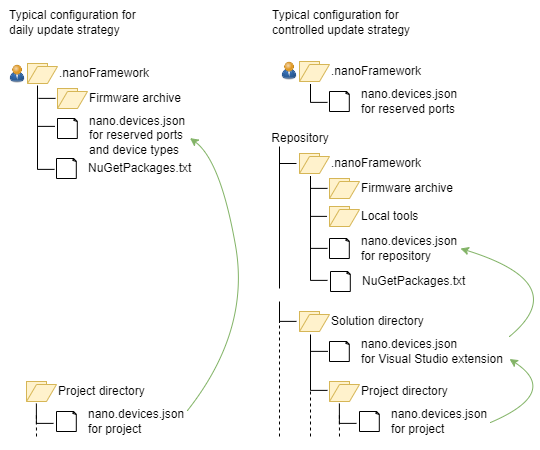
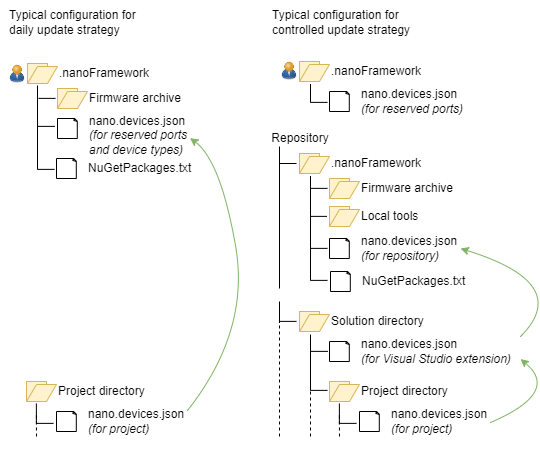
Documentation review

diff --git a/content/versioning/tools-configuration.md b/content/versioning/tools-configuration.md
@@ -1,6 +1,6 @@
 # Tools and configuration
 
-The .NET **nanoFramework** has out-of-the-box support for the auto-update [versioning strategy](versioning-strategies.md). For the other supported strategies some extra configuration files and tools have to be added.
+The .NET **nanoFramework** has out-of-the-box support for the [auto-update](versioning-strategies.md#auto-update) versioning strategy. For the other supported strategies some extra configuration files and tools have to be added.
 
 The configuration is also used by other tools that require information about the devices relevant for a project. These tools include the [Visual Studio extension](../getting-started-guides/getting-started-managed.md) and the latest version of the [test framework](../unit-test/framework-v3). Custom tools can use the configuration by using the [nanoFramework.Tooling.Devices](https://github.com/nanoframework/nf-tools) library.
 
@@ -8,14 +8,14 @@ The configuration consists of several components, depending on the adopted versi
 
 ![Configurations for versioning strategies](../../images/versioning-devices-configuration.png)
 
-- A [local tools](#local-tools) directory (controlled update strategy only).
-- A [firmware archive](#firmware-archive) that contains the firmware packages for the device types your software is intended to be deployed to.
-- A list of [NuGet packages](#nuget-package-list) used in .NET **nanoFramework** projects.
+- A [firmware archive](#firmware-archive) directory that contains the firmware packages for the device types your software is intended to be deployed to.
+- A [local tools](#local-tools) directory; only required for the controlled update strategy.
+- A file (e.g., *NuGetPackages.txt*) that lists the [NuGet package versions](#nuget-package-list) to be used in .NET **nanoFramework** projects.
 - A description of the [configuration and devices](#configuration-and-devices) as stored in `nano.devices.json` files.
 
 The first three components are created by running commands. These can be combined in an [update script](#update-script) that, in case of the daily update strategy, can be run every day.
 
-To each .NET **nanoFramework** project for which a consistency check is required a [NuGet package](#consistency-verification-task) should be added that verifies the consistency of the NuGet packages used by the project, the packages in the NuGet package list and the firmware for the devices the projects is intended to be deployed to.
+A [NuGet package](#consistency-verification-task) should be added to each .NET **nanoFramework** project for which a consistency check is required. The package installs a MSBuild task that verifies the consistency of the NuGet packages used by the project with the packages in the NuGet package list and the firmware for the devices the projects is intended to be deployed to.
 
 ## Local tools 
 
@@ -26,14 +26,6 @@ In that case use a local copy of the [nanoff](https://github.com/nanoframework/n
 ```
 dotnet tool install nanoff --tool-path <repository>\.nanoFramework\Tools
 ```
-
-If you are not planning to update the nanoFramework components for a long time, e.g., near the end of product development or of the product support period, and if you are using the Virtual nanoDevice for testing, you may consider to create a local copy of the Virtual nanoDevice host [nanoclr](../getting-started-guides/virtual-device.md) as well. This ensures that you always will have the correct host available:
-
-```
-dotnet tool install nanoclr --tool-path <repository>\.nanoFramework\Tools
-```
-
-If you are planning to update the nanoFramework components, you don't have to create a local copy. Use the latest version of the global *nanoclr* tool instead with the archived firmware for the Virtual nanoDevice.
 
 ## Firmware archive
 
@@ -55,7 +47,7 @@ If you are not sure which devices you will be using, collect all packages for a 
 nanoff --platform ESP32 --updatearchive --archivepath <archive-directory>
 ```
 
-If you adopt the controlled update strategy, use the Virtual nanoDevice for testing and use the latest version of the *nanoclr* tool, you have to archive the Virtual nanoDevice runtime (*WIN_DLL_nanoCLR*) as well:
+If you adopt the controlled update strategy and use the Virtual nanoDevice for testing, you have to archive the Virtual nanoDevice runtime (*WIN_DLL_nanoCLR*) as well:
 ```
 nanoff --target WIN_DLL_nanoCLR --updatearchive --archivepath <archive-directory>
 ```
@@ -82,7 +74,7 @@ or
 ```
 nuget list nanoFramework -verbosity detailed > <directory>\NuGetPackages.txt
 ```
-You'll notice that there is a warning at the top of *NuGetPackages.txt* that you should use *search* rather than *list*. Don't do that, the search command does not find all packages (at the time of writing).
+You'll notice that there is a warning at the top of *NuGetPackages.txt* that you should use the *search* option rather than *list*. Don't do that, the *search* option only finds a subset of all packages (at the time of writing).
 
 ## Update script
 
@@ -113,10 +105,10 @@ The information on devices that are relevant for a single project, for a solutio
 {
     "GlobalSettingsDirectoryPath": "<path to directory with base configuration>",
     "NuGetPackageList": "<(relative) path to NuGetPackageList.txt file>",
-    "PathToLocalNanoFF": "<localtools>/nanoff.exe",
-    "PathToLocalNanoCLR": "<localtools>/nanoclr.exe",
+    "NanoFFPath": "<localtools>/nanoff.exe",
+    "NanoCLRPath": "<localtools>/nanoclr.exe",
     "FirmwareArchivePath": "<firmware>",
-    "PathToLocalCLRDirectory": "<firmware>/WIN_DLL_nanoCLR-1.12.0.53",
+    "VirtualDeviceCLRPath": "<firmware>/WIN_DLL_nanoCLR-1.12.0.53",
     "VirtualDeviceSerialPort": "COM30",
     "ReservedSerialPorts": ["COM30", "COM31", "COM32", "COM33"],
     "DeviceTypeTargets": {
@@ -137,17 +129,17 @@ with:
 
 - `GlobalSettingsDirectoryPath` is the path to the directory containing another `nano.devices.json` file. That file is read first, then the content of this file is used to overwrite the settings from that file.
 - `NuGetPackageList` is the path to a [file](#nuget-package-list) that lists the allowed versions of the NuGet packages.
-- `PathToLocalNanoFF` is the path to the `nanoff.exe` file that is used to deploy firmware, applications and files to a device. If it is not present, the global tool is used.
-- `PathToLocalNanoCLR` is the path to the `nanoclr.exe` file that is used to run the Virtual nanoDevice. If it is not present, the global tool is used.
+- `NanoFFPath` is the path to the `nanoff.exe` file that is used to deploy firmware, applications and files to a device. If it is not present, the global tool is used.
+- `NanoCLRPath` is the path to the `nanoclr.exe` file that is used to run the Virtual nanoDevice. If it is not present, the global tool is used.
 - `FirmwareArchivePath` is the path to the firmware archive; this is the same path as used in the `--fwarchivepath` argument to *nanoff*.
-- `PathToLocalCLRDirectory` is the path to a directory that contains the Virtual nanoDevice runtime, a file named `nanoFramework.nanoCLR.dll`. If this setting is not present and the runtime is present in the firmware archive specified in *FirmwareArchivePath*, that firmware version is used. If neither is not present, the runtime embedded in `nanoclr.exe` is used.
+- `VirtualDeviceCLRPath` is the path to a directory that contains the Virtual nanoDevice runtime, a file named `nanoFramework.nanoCLR.dll`. If this setting is not present and the runtime is present in the firmware archive specified in *FirmwareArchivePath*, that firmware version is used. If neither is present, the runtime embedded in `nanoclr.exe` is used.
 - `VirtualDeviceSerialPort` is the serial port to use for a Virtual nanoDevice where applications can be deployed to by the Visual Studio extension. The default is "COM30".
-- `ReservedSerialPorts` is an array of serial ports reserved for use by, e.g., a Virtual nanoDevice. This setting is used by all .NET **nanoFramework** tools: these ports are excluded from the discovery of real hardware nanoDevices. The *VirtualDeviceSerialPort* is considered to be part of the *ReservedSerialPorts* even if it is not present in this setting.
-- `DeviceTypeTargets` is a list of named device types, and per name the name of the runtime/target to use. The name cannot be *Virtual nanoDevice*. The target can be a single name or an array.
+- `ReservedSerialPorts` is an array of serial ports reserved for use by, e.g., a Virtual nanoDevice. These ports are excluded from the discovery of real hardware nanoDevices. As the Virtual Device is not a real hardware nanoDevice, the *VirtualDeviceSerialPort* is considered to be part of the *ReservedSerialPorts* even if it is not present in the array.
+- `DeviceTypeTargets` is a list of named device types, and per name the name of the runtime/target to use. The name can be anything except *Virtual nanoDevice*. The target can be a single name or an array.
 - `DeviceTypes` is a list of device types the project is designed to be deployed to. The name *Virtual nanoDevice* refers the the Virtual nanoDevice, all other names must have been defined in *DeviceTypeTargets*.
 - `Platforms` is a list of platforms the project is designed to be deployed to. This is shorthand to select all named devices in *DeviceTypeTargets* that match the specified platform.
 
-A path to a directory or file can be specified relative to the directory the `nano.devices.json` file resides in. It can also be an absolute path, and the path may contain environment variables. Instead of a `\` a '/' may be used. So `../.nanoFramework/Firmware`, `c:\ProgramData\nanoFramework\Firmware` and `%USERPROFILE%/.nanoFramework/Firmware` are all valid paths.
+A path to a directory or file can be specified relative to the directory the `nano.devices.json` file resides in. It can also be an absolute path, and the path may contain environment variables like `%USERPROFILE%`. Instead of a `\` a '/' may be used. So `../.nanoFramework/Firmware`, `c:\ProgramData\nanoFramework\Firmware` and `%USERPROFILE%/.nanoFramework/Firmware` are all valid paths.
 
 ### Settings used by nanoFramework tools
 
@@ -156,10 +148,10 @@ An overview of the settings that are used by the various .NET **nanoFramework** 
 | Setting | Used by |
 | ------- | ------- |
 | NuGetPackageList | [Consistency verification task](#consistency-verification-task)<sup>1</sup> |
-| PathToLocalNanoFF | Not used by .NET **nanoFramework** tools but may be used by custom (community) tools. |
-| PathToLocalNanoCLR | Consistency verification task, Visual Studio extension<sup>2</sup>, test framework<sup>3</sup> |
+| NanoFFPath | Not used by .NET **nanoFramework** tools but may be used by custom (community) tools. |
+| NanoCLRPath | Consistency verification task, Visual Studio extension<sup>2</sup>, test framework<sup>3</sup> |
 | FirmwareArchivePath | Consistency verification task<sup>1</sup>, Visual Studio extension<sup>2</sup>, test framework<sup>3</sup> |
-| PathToLocalCLRDirectory | Consistency verification task, Visual Studio extension<sup>2</sup>, test framework<sup>3</sup> |
+| VirtualDeviceCLRPath | Consistency verification task, Visual Studio extension<sup>2</sup>, test framework<sup>3</sup> |
 | VirtualDeviceSerialPort | Visual Studio extension<sup>2</sup> |
 | ReservedSerialPorts | Visual Studio extension<sup>2</sup>, test framework<sup>3</sup> |
 | DeviceTypeTargets | Consistency verification task<sup>1</sup> |
@@ -174,16 +166,16 @@ An overview of the settings that are used by the various .NET **nanoFramework** 
 
 As illustrated by the diagram in the introduction, the information on devices can be distributed over multiple `nano.devices.json` files. This is done to simplify the administration of the configuration. If multiple .NET **nanoFramework** projects are involved, most of the settings will be identical for all projects. Adding a new device type would require changing all project configurations. Instead the list of device types can be placed in a global `nano.devices.json` file (in *DeviceTypeTargets*); if the project configurations include that global file (via the *GlobalSettingsDirectoryPath*), the new device type is immediately available to all projects.
 
-The configuration files are read:
+The configuration files are read in a particular order:
 
 - First the `nano.devices.json` is read in the project directory (or solution directory for the Visual Studio extension).
 - If the *GlobalSettingsDirectoryPath* is set, the `nano.devices.json` in that directory is processed first. Then the settings in the `nano.devices.json` being read overwrite the settings from the included configuration:
-    - If a top-level element (*PathToLocalNanoCLR*, *DeviceTypeTargets*, etc.) is present in both files, the one that is read first is overwritten by the setting read last.
+    - If a top-level element (*NanoCLRPath*, *DeviceTypeTargets*, etc.) is present in both files, the one that is read first is overwritten by the setting read last.
     - If *DeviceTypeTargets* is present in both files, the lists are merged. In case the same name is present in both lists, the value from the included file is overwritten. To remove a name from the list, set its value to an empty array.
-- This is done recursively: if the included file has a *GlobalSettingsDirectoryPath*, the configuration file in that directory is read before the included file.
+- This is done recursively: if the `nano.devices.json` in the *GlobalSettingsDirectoryPath* has a *GlobalSettingsDirectoryPath*, the configuration file in that directory is read first.
 - If the resulting configuration does not have a value for *ReservedSerialPorts* and the file `%USERPROFILE%\.nanoFramework\nano.devices.json` exists, that file is read and only the setting for *ReservedSerialPorts* is added to the configuration.
 
-A typical use of the configuration files is shown in the illustration at the top of the page.
+The figure at the top of the page illustrates the hierarchy of configuration files.
 
 If you adopt the daily update strategy, a typical use of `nano.devices.json` configurations is:
 
@@ -191,7 +183,7 @@ If you adopt the daily update strategy, a typical use of `nano.devices.json` con
     - *NuGetPackageList*.
     - *FirmwareArchivePath*.
     - *DeviceTypeTargets*: the device types you use in your projects.
-    - *ReservedSerialPorts*: all serial ports that never are used to connect a real hardware nanoDevice to.
+    - *ReservedSerialPorts*: all serial ports that never are used on this machine to connect a real hardware nanoDevice to, but that are used when other devices are connected to the machine.
 - In `nano.devices.json` in a project directory you specify:
     - *GlobalSettingsDirectoryPath* = `%USERPROFILE%/.nanoFramework`.
     - *DeviceTypes* and/or *Platforms*: the device types you use in the project
@@ -202,14 +194,14 @@ If you adopt the controlled update strategy, the configuration files are part of
     - *NuGetPackageList*. 
     - *FirmwareArchivePath*.
     - *DeviceTypeTargets*: the device types you use in your projects.
-    - *PathToLocalNanoFF*, *PathToLocalNanoCLR*, *PathToLocalCLRDirectory* and/or *VirtualDeviceSerialPort* if they are relevant to the projects in the repository.
+    - *NanoFFPath*, *VirtualDeviceCLRPath* and/or *VirtualDeviceSerialPort* if they are relevant to the projects in the repository.
 - In `nano.devices.json` in a solution directory you specify:
     - *GlobalSettingsDirectoryPath* = path to the repository-wide configuration directory.
 - In `nano.devices.json` in a project directory you specify:
     - *GlobalSettingsDirectoryPath* = path to the repository-wide configuration directory or to the solution directory.
     - *DeviceTypes* and/or *Platforms*: the device types you use in the project
 - In `%USERPROFILE%\.nanoFramework\nano.devices.json` you specify:
-    - *ReservedSerialPorts*: all serial ports that never are used on this machine to connect a real hardware nanoDevice to.
+    - *ReservedSerialPorts*: all serial ports that never are used on this machine to connect a real hardware nanoDevice to, but that are used when other devices are connected to the machine.
 
 ## Consistency verification task
 

diff --git a/content/versioning/versioning-strategies.md b/content/versioning/versioning-strategies.md
@@ -2,22 +2,25 @@
 
 ## Affected components
 
-To develop, test and deploy an application to a device, you'll need several components and tools. For some tools it is not relevant which version you are using:
-
-- [Visual Studio extension](../getting-started-guides/getting-started-managed.md);
-- [Test framework](../unit-test);
-- The Virtual Device host [nanoclr.exe](../getting-started-guides/virtual-device.md); the version of the included firmware does matter.
-
-These tools can be updated at any time and keep working with the installed versions of other .NET **nanoFramework** components. The Visual Studio extension is by default auto-updated by Visual Studio. The test framework is a NuGet package that can be updated whenever a new package is available. The Virtual Device is a .NET tool that can be updated manually, and is also updated if it is used by the Visual Studio extension and test framework.
-
-The other tools and components cannot bee freely updated, as there are dependencies between the various versions of the components:
+To develop, test and deploy an application to a device, you'll need several components and tools. Some tools and components cannot bee freely updated, as there are dependencies between the various versions of the components:
 
 - NuGet packages with the .NET class libraries.
 - Firmware packages for the various device types/targets.
 - Firmware package for the Virtual Device.
 - The [nanoff](https://github.com/nanoframework/nanoFirmwareFlasher) tool to deploy applications and firmware to a device.
 
+If incompatible component versions are used for a .NET **nanoFramework** application and the application is deployed to a nanoDevice, the application will not be executed.
+
+For other tools it is not relevant which version you are using, in particular:
+
+- [Visual Studio extension](../getting-started-guides/getting-started-managed.md);
+- [Test framework](../unit-test);
+- The Virtual Device host [nanoclr.exe](../getting-started-guides/virtual-device.md), but the version of the included Virtual Device firmware does matter.
+
+These tools can be updated at any time and keep working with the installed versions of other .NET **nanoFramework** components. The Visual Studio extension is by default auto-updated by Visual Studio. The test framework is a NuGet package that can be updated whenever a new package is available. The Virtual Device is a .NET tool that can be updated manually, and is also updated if it is used by the Visual Studio extension and test framework.
+
 ## Supported strategies
+
 How can you make sure that your application uses matching versions of the NuGet and firmware packages and of *nanoff*? 
 
 The CI/CD pipeline of the .NET **nanoFramework** ensures that all packages and tools are consistent with each other at any moment in time. All packages and tools are updated daily (around 0:00 UTC) with the latest enhancements and bug fixes, and if packages depend on each other, the references are updated. In principle, that is. Some tools and packages hardly ever change, there are many days without updates. But if there are enhancements and bug fixes, they will be made available as quickly as possible.
